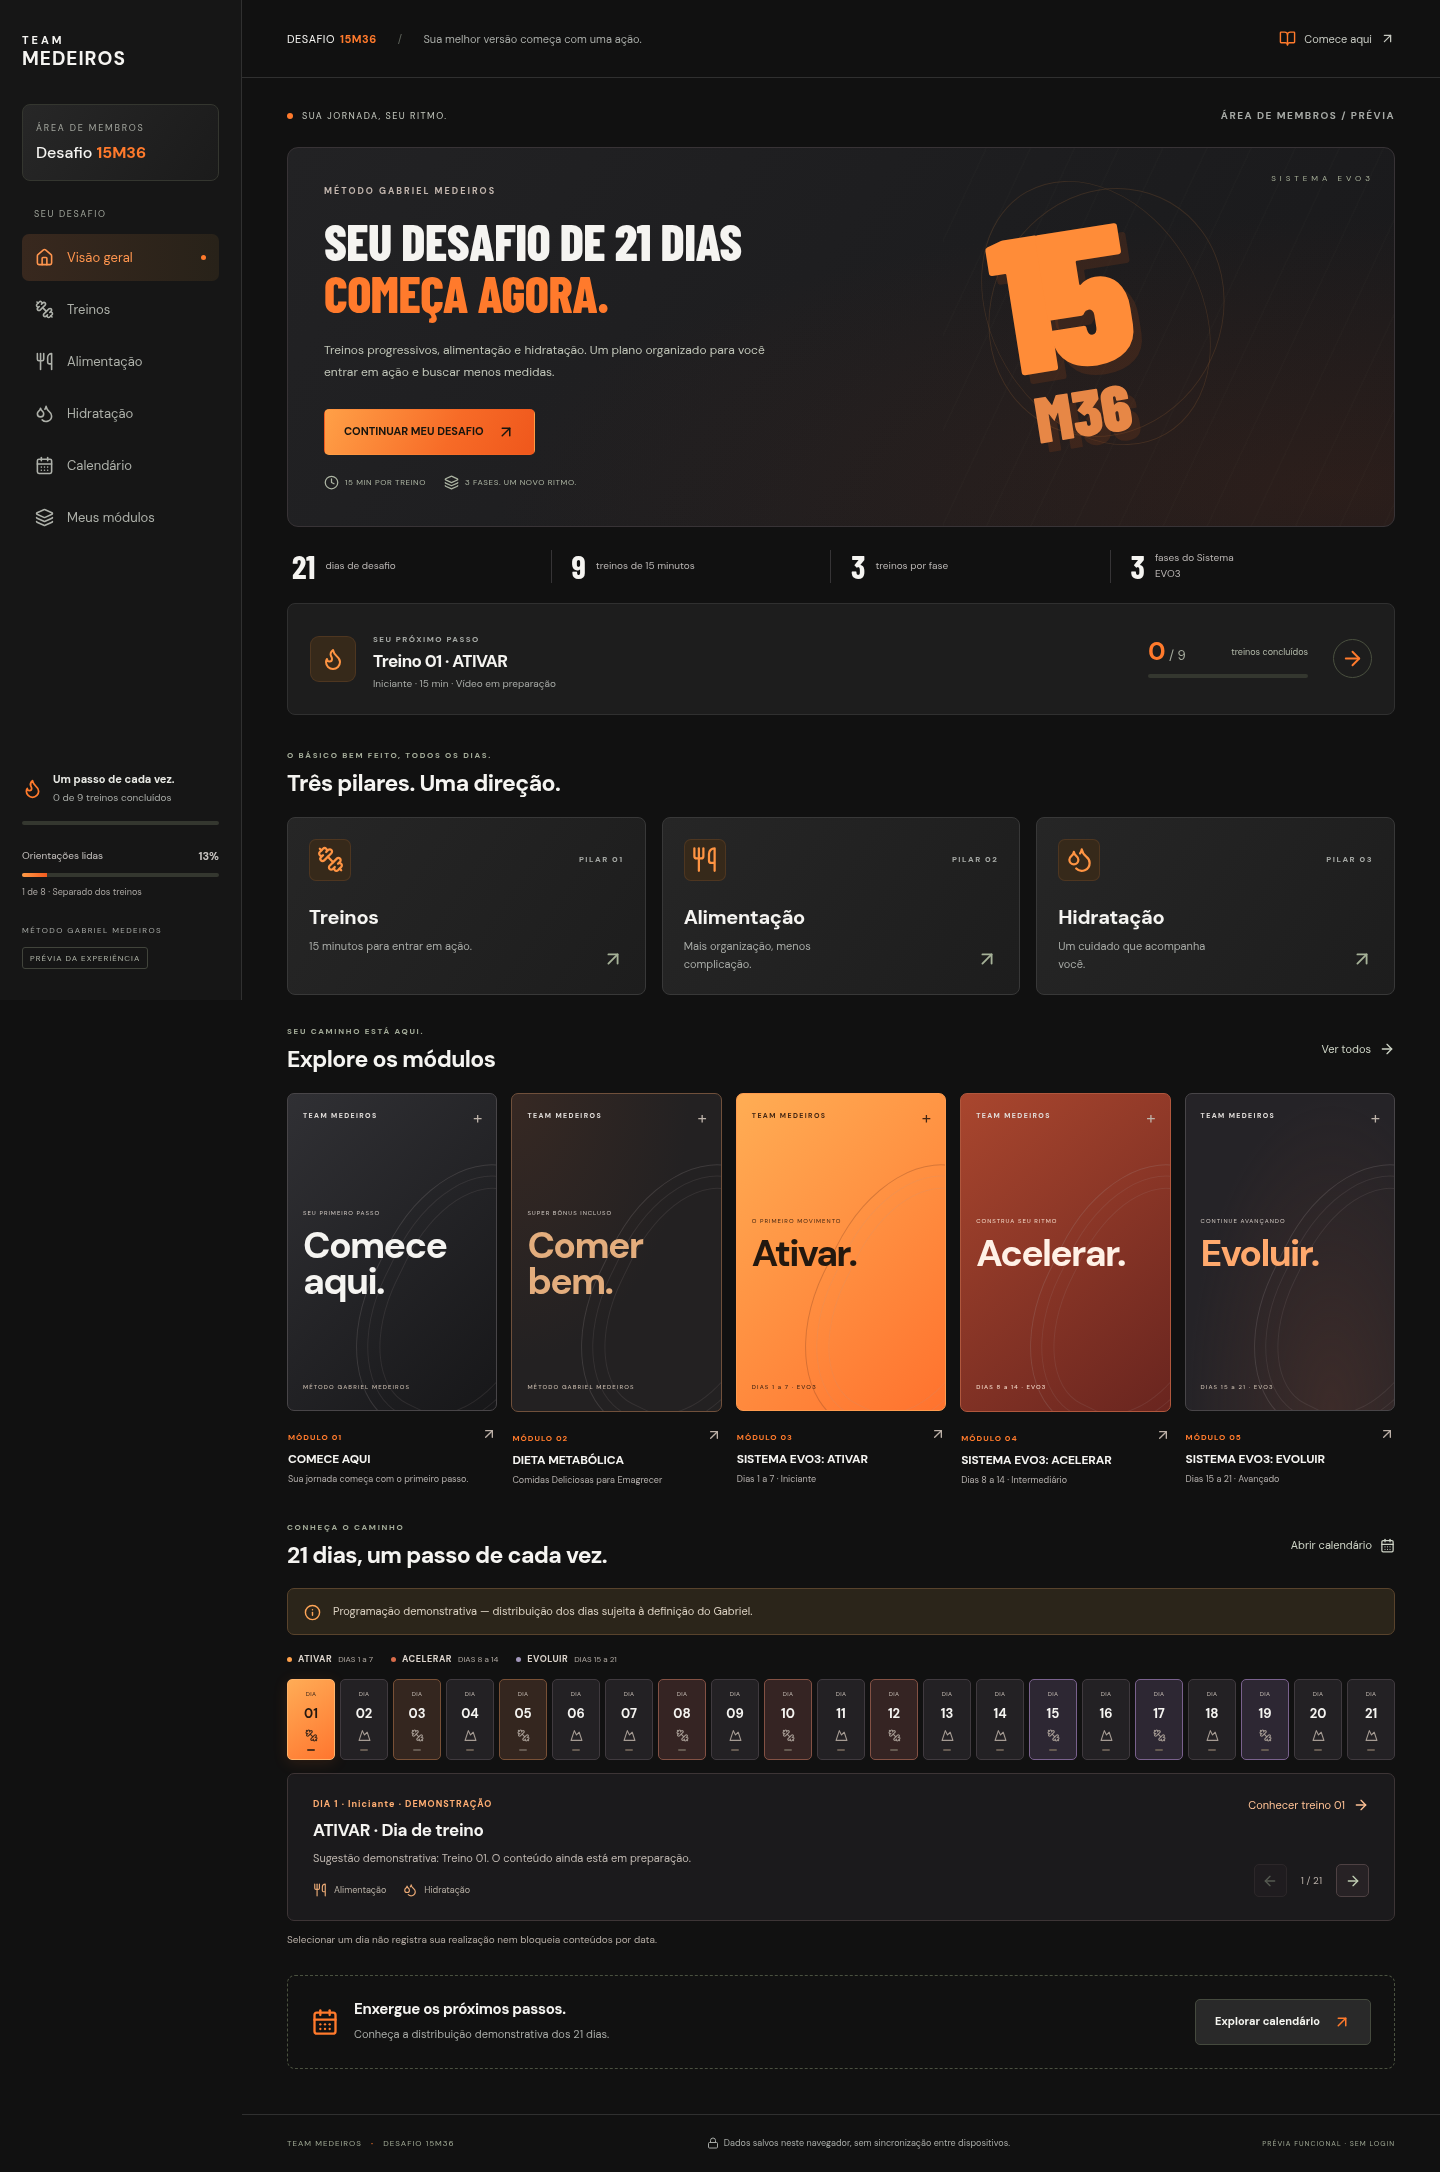
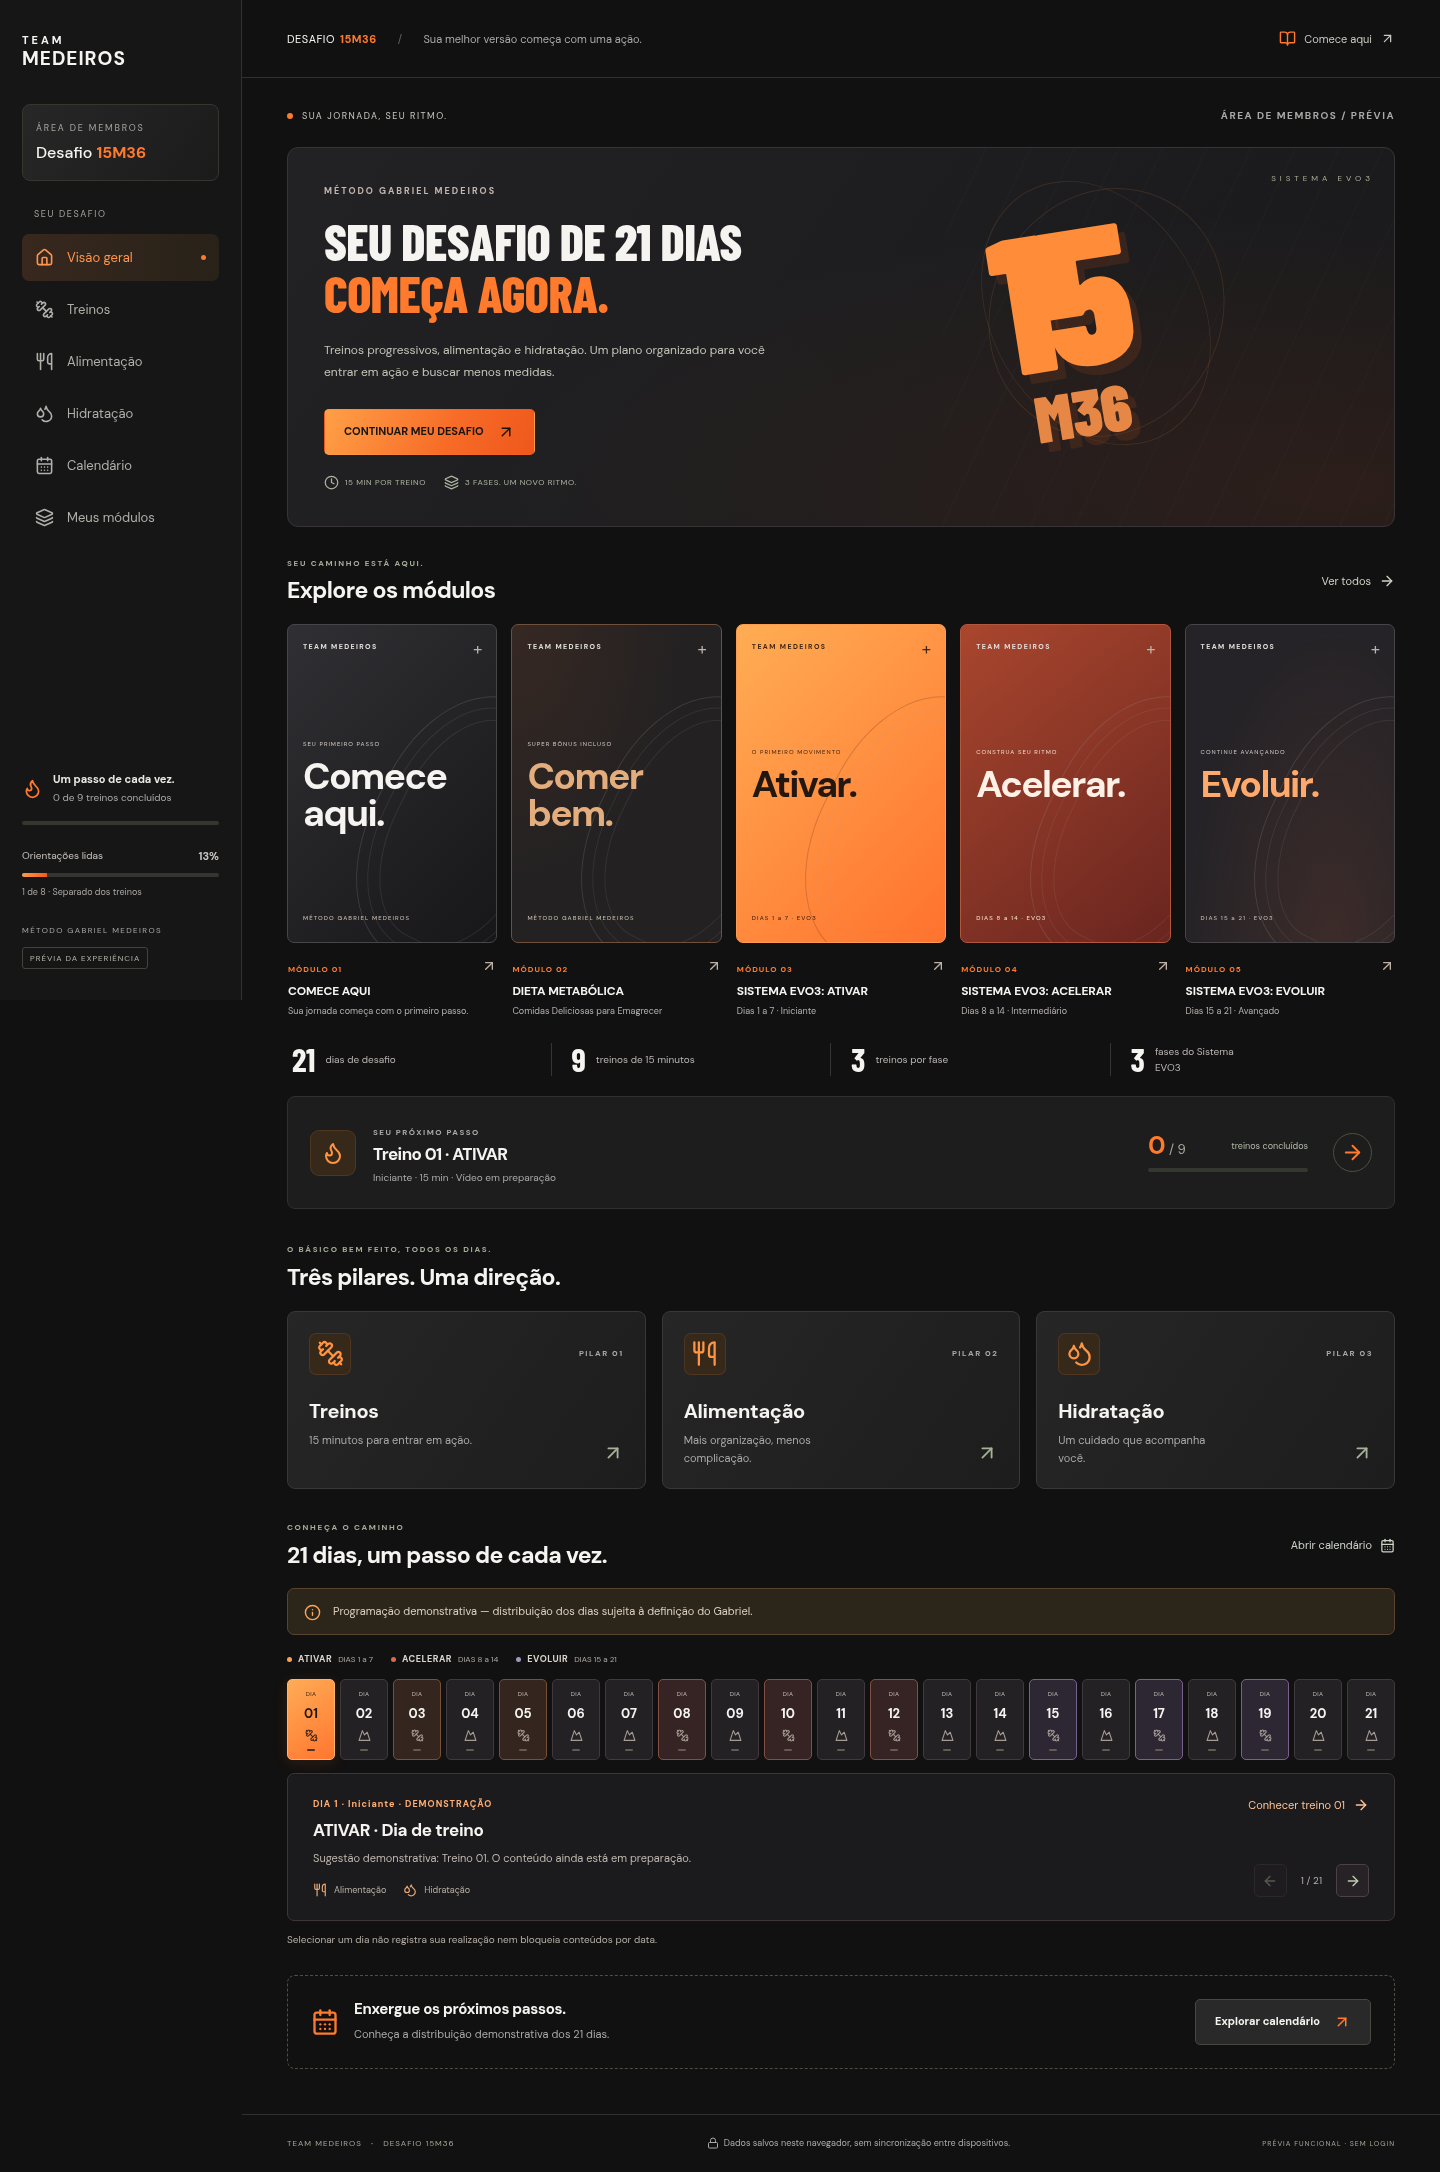
Show module gallery directly after overview hero

diff --git a/src/App.jsx b/src/App.jsx
@@ -596,6 +596,16 @@ export default function App() {
             </div>
           </div>
         </section>
+        <div className="section-heading">
+          <div>
+            <span className="eyebrow">SEU CAMINHO ESTÁ AQUI.</span>
+            <h2>Explore os módulos</h2>
+          </div>
+          <Link to="/modulos" className="text-link">
+            Ver todos <ArrowRight size={16} />
+          </Link>
+        </div>
+        <ModuleCards />
         <div className="method-facts" aria-label="Estrutura do desafio">
           {[
             ["21", "dias de desafio"],
@@ -691,16 +701,6 @@ export default function App() {
             </Link>
           ))}
         </div>
-        <div className="section-heading">
-          <div>
-            <span className="eyebrow">SEU CAMINHO ESTÁ AQUI.</span>
-            <h2>Explore os módulos</h2>
-          </div>
-          <Link to="/modulos" className="text-link">
-            Ver todos <ArrowRight size={16} />
-          </Link>
-        </div>
-        <ModuleCards />
         <CalendarExplorer completed={state.completed} />
         <div className="calendar-cta">
           <div>

diff --git a/docs/VALIDACAO.md b/docs/VALIDACAO.md
@@ -62,3 +62,9 @@ Na execução final, os testes verificaram as quatro refeições, contagem e exe
 As capturas específicas ficam em `artifacts/*-bonus-alimentar.png`, `*-receitas-filtradas.png` e `*-receita-real.png`. As capturas das receitas e da biblioteca filtrada foram inspecionadas visualmente. O cardápio de opções não foi apresentado como roteiro diário de 21 dias.
 
 A atualização alimentar foi publicada no mesmo GitHub Pages. O build `4ac992b22ff8e40ea079a5942b412f4c984031db` foi confirmado como `built`. Os 18 arquivos públicos foram baixados por HTTPS sem autenticação, mantendo verificação de certificado, e comparados por SHA-256 ao build local. Os dois PDFs publicados são cópias integrais dos originais.
+
+## Módulos logo após o banner da visão geral
+
+A seção “Explore os módulos” foi movida para imediatamente após o banner principal. A ordem é Comece aqui, Comer bem, Ativar, Acelerar e Evoluir; os indicadores do desafio, próximo treino e pilares aparecem depois dos módulos.
+
+Foram executados os quatro testes existentes de navegação e referência visual em desktop e celular: todos passaram. Uma verificação adicional no Chromium confirmou a sequência dos elementos após o banner, os cinco links na ordem correta e ausência de rolagem horizontal em 1440 px e 390 px. As capturas estão em `artifacts/*-modulos-logo-abaixo-banner.png`.
